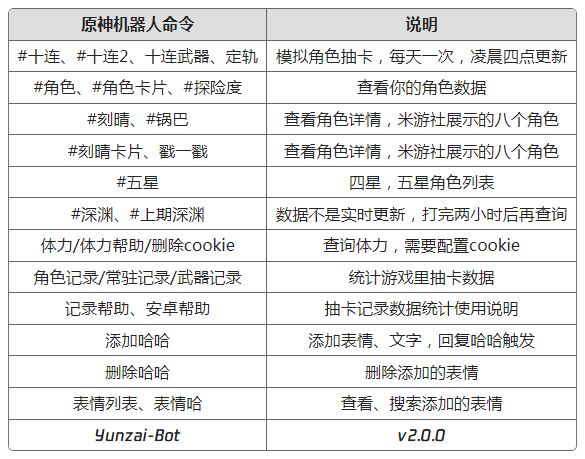
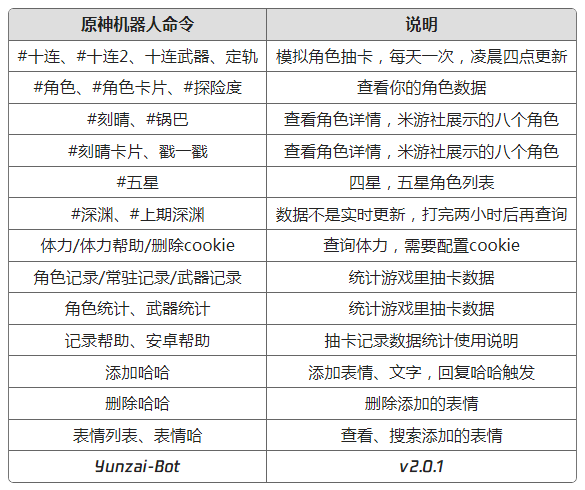
抽卡统计

Changed region(s): [[0.0, 0.0, 0.9846, 1.0]]

diff --git a/resources/help/help.html b/resources/help/help.html
@@ -103,6 +103,10 @@
           <td>统计游戏里抽卡数据</td>
         </tr>
         <tr>
+          <td>角色统计、武器统计</td>
+          <td>统计游戏里抽卡数据</td>
+        </tr>
+        <tr>
           <td>记录帮助、安卓帮助</td>
           <td>抽卡记录数据统计使用说明</td>
         </tr>
@@ -120,7 +124,7 @@
         </tr>
         <tr>
           <td class="logo">Yunzai-Bot</td>
-          <td class="logo">v2.0.0</td>
+          <td class="logo">v2.0.1</td>
         </tr>
       </table>
     </div>

diff --git a/lib/app/gachaLog.js b/lib/app/gachaLog.js
@@ -147,6 +147,11 @@ async function bing(e) {
   e.msg = "武器记录";
   await getLog(e);
 
+  e.msg = "角色统计";
+  await history(e);
+  e.msg = "武器统计";
+  await history(e);
+
   return true;
 }
 
@@ -878,6 +883,7 @@ export async function history(e) {
       save_id: mainUid,
       uid: mainUid,
       pool: pool,
+      typeName:typeName,
     }
     // "png"
   );

diff --git a/resources/genshin/gachaHistory/gachaHistory.html b/resources/genshin/gachaHistory/gachaHistory.html
@@ -9,7 +9,7 @@
     <div class="container">
       <div class="head_box">
         <div class="id_text">ID: {{uid}}</div>
-        <h2 class="day_text">抽卡统计</h2>
+        <h2 class="day_text">抽卡统计-{{typeName}}</h2>
         <img class="genshin_logo" src="../../../../resources/genshin/roleAll/原神.png" />
       </div>
       {{each pool val}}
